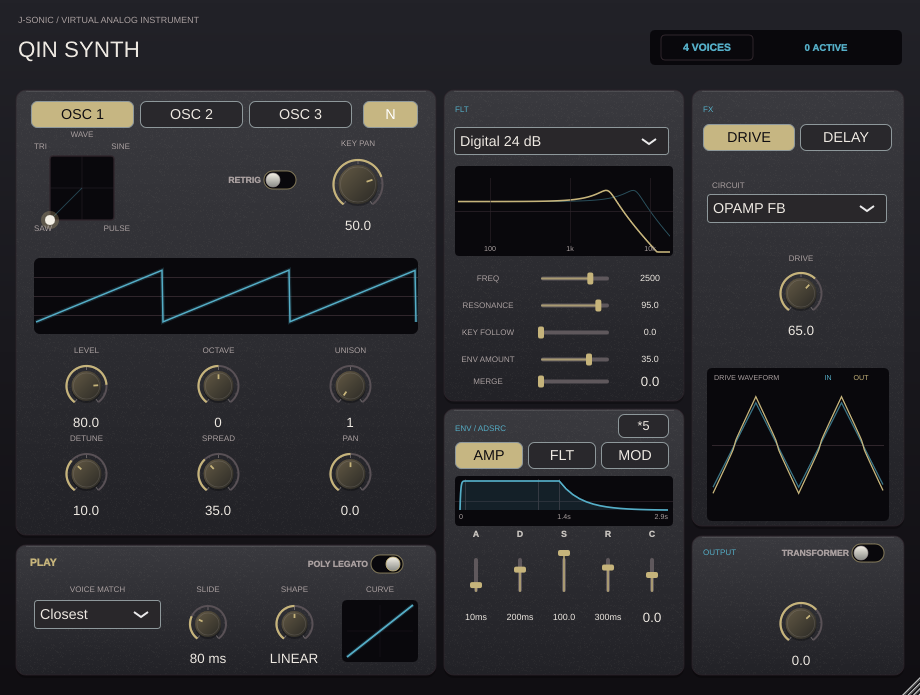
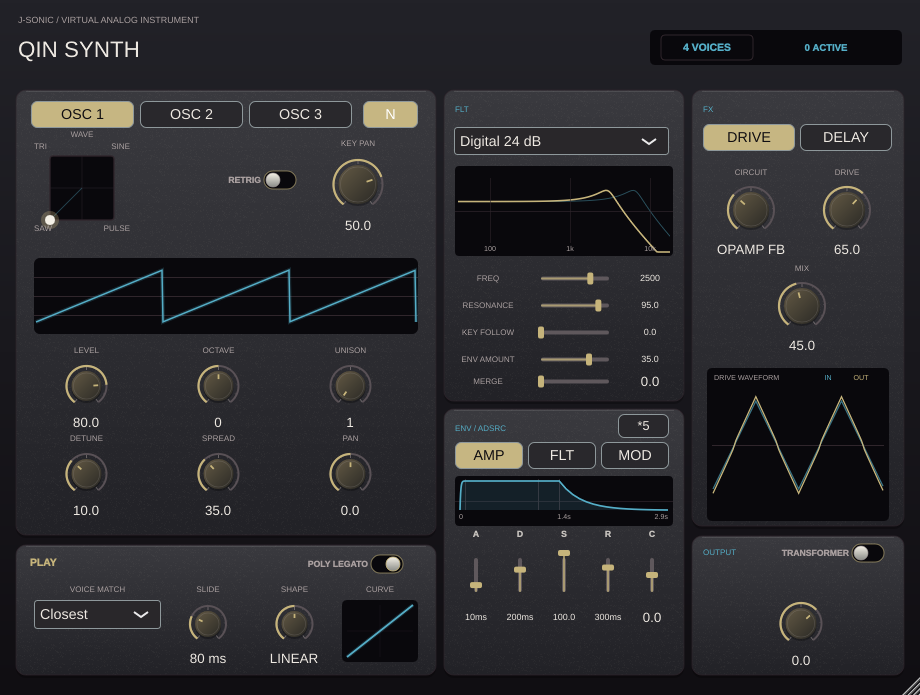
Add Qin drive mix and rotary circuit selector

diff --git a/projects/QinSynth/Source/PluginEditor.cpp b/projects/QinSynth/Source/PluginEditor.cpp
@@ -48,7 +48,7 @@ constexpr std::array<Control,44> controls {{
     {"filterEnvAmount","ENV AMOUNT","Sets how far the filter envelope moves the cutoff."},
     {"keyPan","KEY PAN","Sets pitch panning from high notes left at -100% to high notes right at +100%."},
     {"output","OUTPUT","Sets the final synth level."},
-    {"drive","DRIVE","Blends in the selected Zao circuit."},
+    {"drive","DRIVE","Sets how hard the oscillator signal drives the selected circuit."},
     {"time","TIME","Sets Lan's delay and reverb time."},
     {"decay","DECAY","Sets how long Lan's feedback tail lasts."},
     {"scatter","SCATTER","Morphs Lan's delay into a diffuse reverb."},
@@ -340,18 +340,43 @@ QinSynthEditor::QinSynthEditor(QinSynthProcessor& synth)
         tab.setTooltip(i==0 ? "Opens the drive controls." : "Opens Lan's delay and reverb controls.");
         tab.onClick=[this,i]{showFxSection(int(i));}; addAndMakeVisible(tab);
     }
-    for(size_t mode=0;mode<zao::circuitNames.size();++mode)
-        driveMode.addItem(zao::circuitNames[mode],int(mode)+1);
-    driveMode.setColour(juce::ComboBox::backgroundColourId,juce::Colour(0xff29272a));
-    driveMode.setColour(juce::ComboBox::textColourId,stageStyle::foreground);
+    driveMode.setSliderStyle(juce::Slider::RotaryHorizontalVerticalDrag);
+    driveMode.setRange(0,3,1);
+    driveMode.setTextBoxStyle(juce::Slider::TextBoxBelow,false,88,17);
+    driveMode.setColour(juce::Slider::textBoxOutlineColourId,juce::Colours::transparentBlack);
+    driveMode.setColour(juce::Slider::textBoxTextColourId,stageStyle::foreground);
     driveMode.setTooltip("Selects BJT, op-amp, diode shunt, or series crossover drive from Zao.");
     driveModeLabel.setText("CIRCUIT",juce::dontSendNotification);
     driveModeLabel.setFont(juce::FontOptions(9.f));
+    driveModeLabel.setJustificationType(juce::Justification::centred);
     driveModeLabel.setColour(juce::Label::textColourId,stageStyle::secondary);
     driveModeLabel.setTooltip(driveMode.getTooltip());
     addAndMakeVisible(driveMode); addAndMakeVisible(driveModeLabel);
-    driveModeAttachment=std::make_unique<State::ComboBoxAttachment>(synth.parameters,"driveMode",driveMode);
-    driveMode.onChange=[this]
+    driveModeAttachment=std::make_unique<State::SliderAttachment>(synth.parameters,"driveMode",driveMode);
+    driveMode.textFromValueFunction=[](double value)
+    {
+        constexpr std::array<const char*,4> names {"BJT CE","OPAMP FB","SHUNT","CROSSOVER"};
+        return juce::String(names[size_t(std::clamp(juce::roundToInt(value),0,3))]);
+    };
+    driveMode.setTextBoxIsEditable(false);
+    driveMode.updateText();
+    driveMode.onValueChange=[this]
+    {
+        updateDrivePreview();
+        repaint(editorScaling::repaintArea(*this,designWidth,designHeight,{707,368,182,153}));
+    };
+    driveMix.setSliderStyle(juce::Slider::RotaryHorizontalVerticalDrag);
+    driveMix.setTextBoxStyle(juce::Slider::TextBoxBelow,false,82,17);
+    driveMix.setColour(juce::Slider::textBoxOutlineColourId,juce::Colours::transparentBlack);
+    driveMix.setColour(juce::Slider::textBoxTextColourId,stageStyle::foreground);
+    driveMixLabel.setText("MIX",juce::dontSendNotification);
+    driveMixLabel.setFont(juce::FontOptions(9.f));
+    driveMixLabel.setJustificationType(juce::Justification::centred);
+    driveMixLabel.setColour(juce::Label::textColourId,stageStyle::secondary);
+    editorTooltips::setHint(driveMix,driveMixLabel,"Blends the driven signal with the dry oscillator signal.");
+    addAndMakeVisible(driveMix); addAndMakeVisible(driveMixLabel);
+    driveMixAttachment=std::make_unique<State::SliderAttachment>(synth.parameters,"driveMix",driveMix);
+    driveMix.onValueChange=[this]
     {
         updateDrivePreview();
         repaint(editorScaling::repaintArea(*this,designWidth,designHeight,{707,368,182,153}));
@@ -513,13 +538,14 @@ void QinSynthEditor::updateDrivePreview()
 {
     qin::DriveCircuitBank circuit;
     circuit.prepare(48000.0);
-    const auto mode=std::clamp(driveMode.getSelectedId()-1,0,3);
-    const auto mix=std::clamp(float(sliders[37].getValue())*.01f,0.f,1.f);
+    const auto mode=std::clamp(juce::roundToInt(driveMode.getValue()),0,3);
+    const auto drive=std::clamp(float(sliders[37].getValue())*.01f,0.f,1.f);
+    const auto mix=std::clamp(float(driveMix.getValue())*.01f,0.f,1.f);
     for(int sample=0;sample<384;++sample)
     {
         const auto phase=std::fmod(float(sample)/64.f,1.f);
         const auto original=.55f*(1.f-4.f*std::abs(phase-.5f));
-        const auto driven=float(circuit.process(mode,0,original*(1.f+5.f*mix)));
+        const auto driven=drive>1.e-4f ? float(circuit.process(mode,0,original*(1.f+5.f*drive))) : original;
         if(sample>=256)
         {
             const auto index=size_t(sample-256);
@@ -594,6 +620,7 @@ void QinSynthEditor::updateVisibility()
     for(size_t i=36;i<sliders.size();++i)
     { const auto selected=i==36 || (currentFxSection==0 ? i==37 : i>=38); sliders[i].setVisible(selected); labels[i].setVisible(selected && i!=36); }
     driveMode.setVisible(currentFxSection==0); driveModeLabel.setVisible(currentFxSection==0);
+    driveMix.setVisible(currentFxSection==0); driveMixLabel.setVisible(currentFxSection==0);
 }
 void QinSynthEditor::resized()
 {
@@ -645,10 +672,11 @@ void QinSynthEditor::resized()
     filterMergeLabel.setBounds(454,369,68,25);
     filterMergeSlider.setBounds(523,369,150,25);
     for(int i=0;i<2;++i) fxTabs[size_t(i)].setBounds(703+i*97,124,92,27);
-    driveModeLabel.setBounds(707,178,180,14); driveMode.setBounds(707,194,180,29);
+    driveModeLabel.setBounds(706,165,90,14); driveMode.setBounds(706,179,90,79);
+    labels[37].setBounds(802,165,90,14); sliders[37].setBounds(802,179,90,79);
+    driveMixLabel.setBounds(758,261,88,14); driveMix.setBounds(758,275,88,79);
     transformerButton.setBounds(760,538,126,30);
     labels[36].setBounds(760,589,82,14); sliders[36].setBounds(760,595,82,74);
-    labels[37].setBounds(760,251,82,14); sliders[37].setBounds(760,265,82,74);
     for(int i=38;i<44;++i)
     {
         const auto n=i-38,x=706+(n%2)*94,y=178+(n/2)*99;
@@ -666,6 +694,7 @@ void QinSynthEditor::resized()
     for(auto& tab:envelopeTabs) tab.setTransform(scale);
     for(auto& tab:fxTabs) tab.setTransform(scale);
     driveMode.setTransform(scale); driveModeLabel.setTransform(scale);
+    driveMix.setTransform(scale); driveMixLabel.setTransform(scale);
     transformerButton.setTransform(scale);
     for(auto& slider:sliders) slider.setTransform(scale);
     for(auto& slider:curveSliders) slider.setTransform(scale);

diff --git a/projects/QinSynth/Tests/ProcessorTests.cpp b/projects/QinSynth/Tests/ProcessorTests.cpp
@@ -82,16 +82,21 @@ struct QinSynthEditorTestAccess
     static bool delayFxVisible(const QinSynthEditor& editor)
     { return editor.sliders[38].isVisible() && editor.sliders[43].isVisible(); }
     static bool driveVisible(const QinSynthEditor& editor)
-    { return editor.sliders[37].isVisible() && editor.driveMode.isVisible(); }
+    { return editor.sliders[37].isVisible() && editor.driveMode.isVisible() && editor.driveMix.isVisible()
+        && editor.driveMix.getSliderStyle()==juce::Slider::RotaryHorizontalVerticalDrag; }
     static bool transformerVisible(const QinSynthEditor& editor) { return editor.transformerButton.isVisible(); }
     static bool outputSectionVisible(const QinSynthEditor& editor)
     { return editor.transformerButton.isVisible() && editor.sliders[36].isVisible()
         && editor.transformerButton.getY()>=536 && editor.sliders[36].getY()>=536; }
     static bool compactFxKnobs(const QinSynthEditor& editor)
     { return editor.sliders[37].getHeight()<80 && editor.sliders[38].getHeight()<80; }
-    static int driveModeCount(const QinSynthEditor& editor) { return editor.driveMode.getNumItems(); }
+    static int driveModeCount(const QinSynthEditor& editor)
+    { return editor.driveMode.getSliderStyle()==juce::Slider::RotaryHorizontalVerticalDrag
+        ? juce::roundToInt(editor.driveMode.getMaximum()-editor.driveMode.getMinimum())+1 : 0; }
     static void selectDriveMode(QinSynthEditor& editor,int item)
-    { editor.driveMode.setSelectedId(item,juce::sendNotificationSync); }
+    { editor.driveMode.setValue(item-1,juce::sendNotificationSync); }
+    static void setDriveMix(QinSynthEditor& editor,double mix)
+    { editor.driveMix.setValue(mix,juce::sendNotificationSync); }
     static void setTransformer(QinSynthEditor& editor,bool on)
     { editor.transformerButton.setToggleState(on,juce::sendNotificationSync); }
     static bool envelopeVisible(const QinSynthEditor& editor,int index)
@@ -359,19 +364,25 @@ int main(int argc,char** argv)
            || power(reverseHighAudio,0)<=power(reverseHighAudio,1)*2)
             throw std::runtime_error("Negative Key Pan must send high notes left and low notes right");
         {
-            QinSynthProcessor plain, driven;
-            for(auto* p:{&plain,&driven}) {set(*p,"verbMix",0); p->prepareToPlay(48000,256);}
+            QinSynthProcessor plain, driven, dryMix;
+            for(auto* p:{&plain,&driven,&dryMix}) {set(*p,"verbMix",0); p->prepareToPlay(48000,256);}
             set(driven,"drive",75);
-            juce::AudioBuffer<float> a(2,256),b(2,256);
+            set(dryMix,"drive",75); set(dryMix,"driveMix",0);
+            juce::AudioBuffer<float> a(2,256),b(2,256),c(2,256);
             juce::MidiBuffer note;
             note.addEvent(juce::MidiMessage::noteOn(1,60,1.f),0);
-            double difference=0;
+            double difference=0,dryDifference=0;
             for(int blockIndex=0;blockIndex<8;++blockIndex)
             {
-                plain.processBlock(a,note); driven.processBlock(b,note); note.clear();
-                for(int i=0;i<256;++i) difference+=std::abs(a.getSample(0,i)-b.getSample(0,i));
+                plain.processBlock(a,note); driven.processBlock(b,note); dryMix.processBlock(c,note); note.clear();
+                for(int i=0;i<256;++i)
+                {
+                    difference+=std::abs(a.getSample(0,i)-b.getSample(0,i));
+                    dryDifference+=std::abs(a.getSample(0,i)-c.getSample(0,i));
+                }
             }
-            if(difference<1) throw std::runtime_error("Zao drive control must alter the generated tone");
+            if(difference<1 || dryDifference>1.e-4)
+                throw std::runtime_error("Drive Mix must independently blend the driven and dry oscillator signals");
         }
         {
             std::array<std::array<float,256>,4> outputs {};
@@ -934,10 +945,12 @@ int main(int argc,char** argv)
                || QinSynthEditorTestAccess::driveModeCount(editor)!=4)
                 throw std::runtime_error("FX must expose four Zao circuits and the output transformer");
             QinSynthEditorTestAccess::selectDriveMode(editor,3);
+            QinSynthEditorTestAccess::setDriveMix(editor,45);
             QinSynthEditorTestAccess::setTransformer(editor,true);
             if(std::abs(preview.parameters.getRawParameterValue("driveMode")->load()-2)>1.e-6
+               || std::abs(preview.parameters.getRawParameterValue("driveMix")->load()-45)>1.e-3
                || preview.parameters.getRawParameterValue("transformer")->load()<.5f)
-                throw std::runtime_error("Drive circuit and transformer controls must update host parameters");
+                throw std::runtime_error("Drive circuit, mix, and transformer controls must update host parameters");
             if(changes({707,368,182,153},[&]{QinSynthEditorTestAccess::selectDriveMode(editor,4);})<20)
                 throw std::runtime_error("Drive preview must follow the selected circuit");
             QinSynthEditorTestAccess::selectDriveMode(editor,2);

diff --git a/projects/QinSynth/Source/PluginProcessor.cpp b/projects/QinSynth/Source/PluginProcessor.cpp
@@ -95,6 +95,7 @@ juce::AudioProcessorValueTreeState::ParameterLayout QinSynthProcessor::layout()
     result.add(std::make_unique<juce::AudioParameterBool>(juce::ParameterID{"noise",1},"Noise oscillator",false));
     add("keyPan","Key pan",-100,100,.1f,50,"%");
     add("drive","Drive",0,100,.1f,0,"%");
+    add("driveMix","Drive mix",0,100,.1f,100,"%");
     add("time","Delay time",25,1000,.1f,180,"ms");
     add("decay","Reverb decay",.3f,20,.1f,3,"s");
     add("scatter","Scatter",0,100,.1f,70,"%");
@@ -245,6 +246,7 @@ QinSynthProcessor::Settings QinSynthProcessor::readSettings() const noexcept
     settings.voiceCount=std::clamp(juce::roundToInt(get("voiceCount")),1,maxVoices);
     settings.pan=std::clamp(get("keyPan")*.01f,-1.f,1.f);
     settings.drive=std::clamp(get("drive")*.01f,0.f,1.f);
+    settings.driveMix=std::clamp(get("driveMix")*.01f,0.f,1.f);
     settings.driveMode=std::clamp(juce::roundToInt(get("driveMode")),0,3);
     settings.transformer=get("transformer")>=.5f;
     settings.polyLegato=get("polyLegato")>=.5f;
@@ -727,7 +729,7 @@ void QinSynthProcessor::renderSegment(juce::AudioBuffer<float>& buffer,int start
         const auto original=capture ? .5f*(buffer.getSample(0,i)+buffer.getSample(1,i)) : 0.f;
         std::array<float,zao::circuitCount> weights {};
         for(size_t mode=0;mode<weights.size();++mode) weights[mode]=driveWeights[mode].getNextValue();
-        if(settings.drive>1.e-4f)
+        if(settings.drive>1.e-4f && settings.driveMix>1.e-4f)
             for(int ch=0;ch<2;++ch)
             {
                 const auto dry=buffer.getSample(ch,i);
@@ -735,7 +737,7 @@ void QinSynthProcessor::renderSegment(juce::AudioBuffer<float>& buffer,int start
                 for(size_t mode=0;mode<weights.size();++mode)
                     if(weights[mode]>1.e-6f)
                         driven+=weights[mode]*driveCircuit.process(int(mode),ch,dry*(1+5*settings.drive));
-                const auto result=dry+settings.drive*(driven-dry);
+                const auto result=dry+settings.driveMix*(driven-dry);
                 buffer.setSample(ch,i,!bypass && std::isfinite(result) ? float(std::clamp(result,-4.0,4.0)) : dry);
             }
         if(capture)

diff --git a/projects/QinSynth/Source/PluginEditor.h b/projects/QinSynth/Source/PluginEditor.h
@@ -78,8 +78,8 @@ private:
     std::array<juce::TextButton,2> fxTabs;
     juce::TextButton noiseButton {"N"};
     QinRetrigSwitch transformerButton {"TRANSFORMER"};
-    juce::ComboBox driveMode;
-    juce::Label driveModeLabel;
+    juce::Slider driveMode, driveMix;
+    juce::Label driveModeLabel, driveMixLabel;
     QinVoiceSlider voiceCount;
     juce::Label activeVoicesLabel;
     QinRetrigSwitch polyLegatoButton {"POLY LEGATO"};
@@ -112,7 +112,7 @@ private:
     std::unique_ptr<State::ComboBoxAttachment> legatoRuleAttachment;
     std::unique_ptr<State::SliderAttachment> slideTimeAttachment, slideShapeAttachment;
     std::unique_ptr<State::ComboBoxAttachment> filterTypeAttachment, modTargetAttachment;
-    std::unique_ptr<State::ComboBoxAttachment> driveModeAttachment;
+    std::unique_ptr<State::SliderAttachment> driveModeAttachment, driveMixAttachment;
     std::unique_ptr<State::ButtonAttachment> transformerAttachment;
     std::unique_ptr<State::ButtonAttachment> noiseAttachment, timesFiveAttachment;
     std::array<std::unique_ptr<State::SliderAttachment>,4> noiseSliderAttachments;

diff --git a/projects/QinSynth/Source/PluginProcessor.h b/projects/QinSynth/Source/PluginProcessor.h
@@ -76,7 +76,7 @@ private:
         std::array<OscillatorSettings,oscillatorCount> oscillator;
         NoiseSettings noiseOscillator;
         std::array<EnvelopeSettings,3> env;
-        float pan=0, drive=0, output=0, cutoff=18000, resonance=0, keyFollow=0, filterEnv=0, filterMerge=0, modDepth=0;
+        float pan=0, drive=0, driveMix=1, output=0, cutoff=18000, resonance=0, keyFollow=0, filterEnv=0, filterMerge=0, modDepth=0;
         int filterType=0, modTarget=0, voiceCount=maxVoices, driveMode=1, legatoMode=0;
         bool noise=false, transformer=false, polyLegato=false;
         float slideMs=80, slideShape=.5f;

diff --git a/projects/QinSynth/README.md b/projects/QinSynth/README.md
@@ -24,7 +24,7 @@ ENV has three independent envelopes, edited with five vertical sliders labeled A
 
 FLT uses logarithmic Freq and Resonance sliders, plus Key Follow, Env Amount, and Merge. At 0% Merge every note has its own filter; at 100% the voices feed one shared stereo filter, with a smooth blend between the two paths. The response graph has a frequency scale and follows the active cutoff while notes play, averaging the voice cutoffs by level when several notes sound together. When idle, its solid trace represents the held filter-envelope level at C5 and a lighter trace shows the attack peak when different. The graph reserves headroom for the resonant peak. Filter choices are bypass, a nonlinear TB-303-style four-pole ladder, an 18 dB/oct resonant Sallen-Key-style section, and 12 or 24 dB/oct digital state-variable low-passes. The state-variable filter uses a stable trapezoidal integrator with controlled resonance, and a soft ceiling bounds extreme polyphonic output. Cutoff changes glide over 5 ms per voice. New notes take a free voice first, then steal a released or oldest voice when the selected voice count is occupied. Sustain pedal (MIDI CC64), note-off, all-notes-off, and all-sound-off are supported.
 
-The Drive Circuit selector uses Zao Drive's BJT common emitter, op-amp feedback, diode shunt, and series diode crossover models with Zao's default bias and diode knee. Drive blends the selected circuit into the sound, and a short crossfade softens mode changes. The waveform display compares input and post-drive output in real time, synchronizing both traces to complete input waveform periods when a stable period is present; when idle, it previews the selected circuit driven by a triangle wave. The OSC waveform illustration also spans three complete cycles. The delay-reverb reuses Lan Reverb's eight-line feedback network and Scatter control. Qin disables Lan's spectral resonance analyser and tamer. A MIDI note-on changes the feedback tap target and phase-scatter depth according to note pitch, velocity, and alternating onset direction; Tap Motion and Phase Motion set the amount. Lan's existing tap crossfades and phase smoothing soften these changes. No audio-spectrum detection controls the tap or phase. The **Transformer** button inserts Ren Transformer's default stage after Lan's output. Its nonlinear core stops processing when the button is off; a fixed 64-sample delay keeps the on and off paths aligned.
+The stepped Circuit knob selects Zao Drive's BJT common emitter, op-amp feedback, diode shunt, and series diode crossover models with Zao's default bias and diode knee. Drive sets circuit intensity, while the separate Mix knob blends driven and dry oscillator signals; a short crossfade softens circuit changes. At zero Mix, the drive circuit does no processing. The waveform display compares input and post-drive output in real time, synchronizing both traces to complete input waveform periods when a stable period is present; when idle, it previews the selected circuit driven by a triangle wave. The OSC waveform illustration also spans three complete cycles. The delay-reverb reuses Lan Reverb's eight-line feedback network and Scatter control. Qin disables Lan's spectral resonance analyser and tamer. A MIDI note-on changes the feedback tap target and phase-scatter depth according to note pitch, velocity, and alternating onset direction; Tap Motion and Phase Motion set the amount. Lan's existing tap crossfades and phase smoothing soften these changes. No audio-spectrum detection controls the tap or phase. The **Transformer** button inserts Ren Transformer's default stage after Lan's output. Its nonlinear core stops processing when the button is off; a fixed 64-sample delay keeps the on and off paths aligned.
 
 The FLT Resonance slider uses a logarithmic taper with finer control near 100%, while keeping the same 0–100% filter setting.
 

diff --git a/README.md b/README.md
@@ -193,7 +193,7 @@ input, generated delta, and resulting spectra.
 
 ![Qin Synth Sound page with horizontal oscillator tabs, a waveform display, and unison controls](projects/QinSynth/Previews/qin-synth.png)
 
-Set one to sixteen voices by dragging the header readout; one voice supports overlapping legato notes and returns to the previous held pitch on release. Three OSC tabs each provide a square pad for blending Saw, Pulse, Triangle, and Sine waves, a Retrig switch, and up to eight unison copies. The compact ENV panel uses vertical ADSRC sliders. Small **FX** knobs control four Zao drive circuits or Lan Delay-Verb; a dedicated **OUTPUT** section holds Ren Transformer and output gain. **Key Pan** spreads notes by pitch in either stereo direction from −100% to +100%; MIDI note-ons steer Lan's tap and phase motion without running its resonance tamer.
+Set one to sixteen voices by dragging the header readout; one voice supports overlapping legato notes and returns to the previous held pitch on release. Three OSC tabs each provide a square pad for blending Saw, Pulse, Triangle, and Sine waves, a Retrig switch, and up to eight unison copies. The compact ENV panel uses vertical ADSRC sliders. Small **FX** knobs control four Zao drive circuits or Lan Delay-Verb; Drive has an independent wet/dry Mix knob, and a dedicated **OUTPUT** section holds Ren Transformer and output gain. **Key Pan** spreads notes by pitch in either stereo direction from −100% to +100%; MIDI note-ons steer Lan's tap and phase motion without running its resonance tamer.
 The PLAY panel adds a live voice count, four Poly Legato matching rules, and adjustable slide time and shape. AMP, FLT, and MOD envelope times use logarithmic 1–5000 ms sliders, with a shared `*5` toggle beside the ENV tabs.
 The **N** oscillator has its own level, tuning, high-pass filter, pan, and White/Pink/Velvet noise styles.
 

diff --git a/projects/QinSynth/TOOLTIPS.md b/projects/QinSynth/TOOLTIPS.md
@@ -57,7 +57,8 @@
 | FLT Merge | Blends per-voice filters into one shared master filter at 100%. |
 | Key Pan | Sets pitch panning from high notes left at -100% to high notes right at +100%. |
 | Output | Sets the final synth level. |
-| Drive | Blends in the selected Zao circuit. |
+| Drive | Sets how hard the oscillator signal drives the selected circuit. |
+| Drive Mix | Blends the driven signal with the dry oscillator signal. |
 | Time | Sets Lan's delay and reverb time. |
 | Decay | Sets how long Lan's feedback tail lasts. |
 | Scatter | Morphs Lan's delay into a diffuse reverb. |
